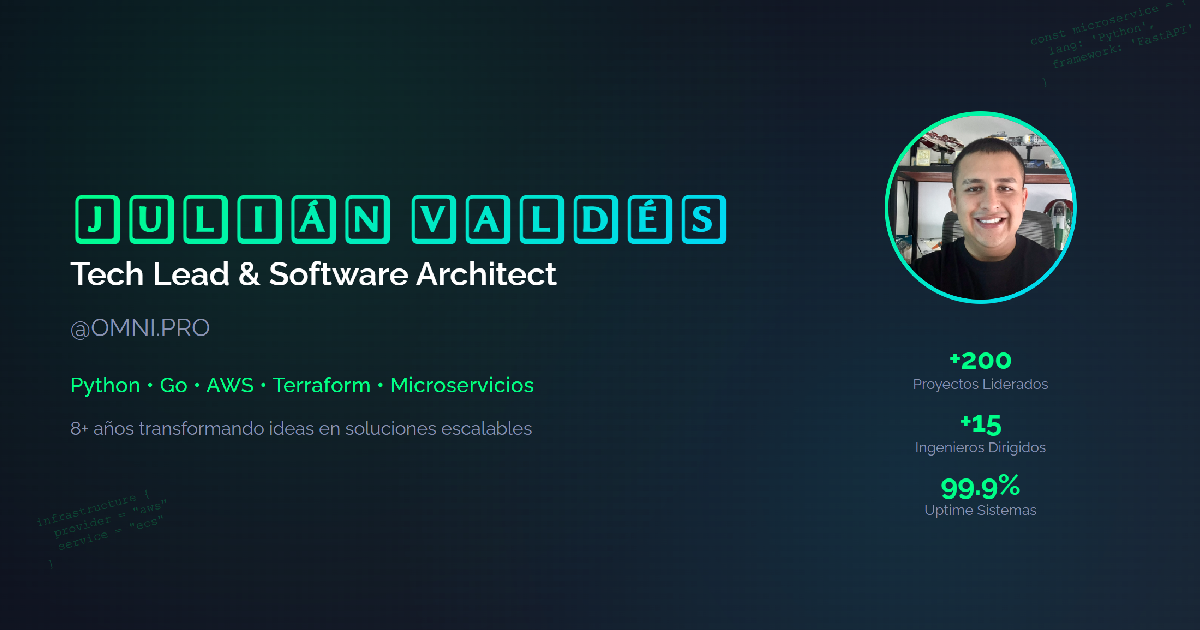
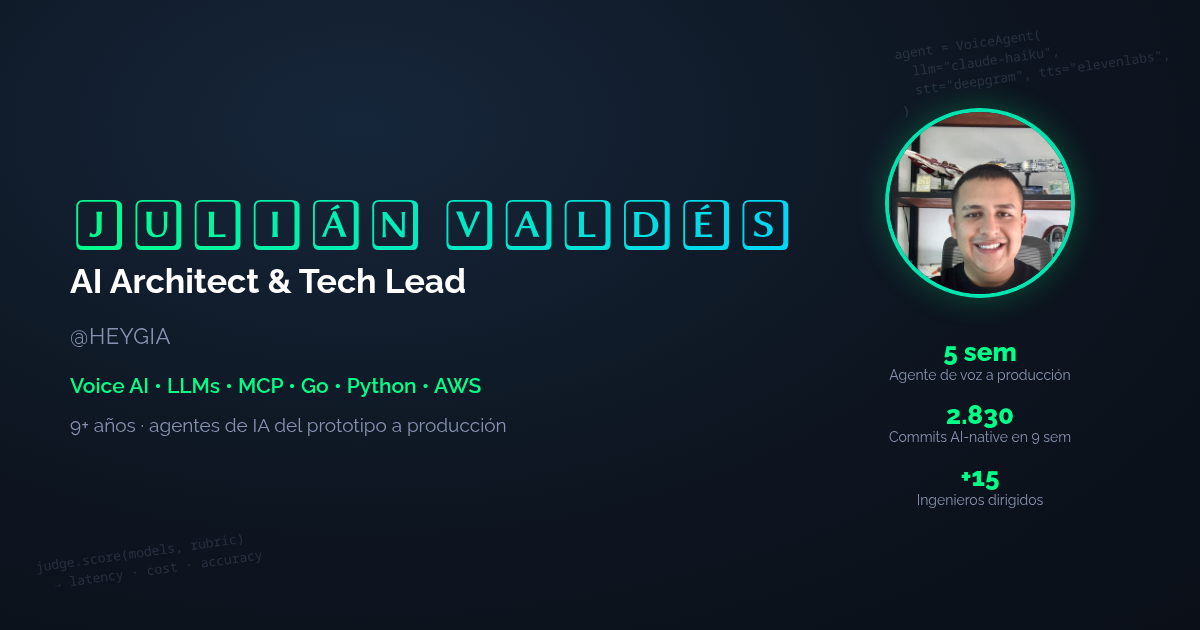
feat: regenerar og-image como AI Architect @HeyGIA
Agrega templates/og-home.html como fuente de la imagen principal.

diff --git a/templates/og-home.html b/templates/og-home.html
@@ -1,0 +1,59 @@
+<!DOCTYPE html>
+<html lang="es">
+<head>
+<meta charset="UTF-8">
+<!-- Plantilla de la og-image principal (assets/images/og-image.png). Render a 1200x630. -->
+<link href="https://fonts.googleapis.com/css2?family=Libertinus+Keyboard&family=Raleway:wght@400;500;600;700;800&display=swap" rel="stylesheet">
+<style>
+  * { margin: 0; padding: 0; box-sizing: border-box; }
+  body {
+    width: 1200px; height: 630px; overflow: hidden;
+    font-family: 'Raleway', sans-serif; color: #e6edf3;
+    background: radial-gradient(ellipse at 30% 20%, #16263a 0%, #0d1520 55%, #0a0f18 100%);
+    position: relative;
+  }
+  .code { position: absolute; font-family: monospace; font-size: 13px; line-height: 1.45;
+          color: rgba(136,146,176,0.22); white-space: pre; }
+  .code.tr { top: 26px; right: 30px; transform: rotate(-8deg); }
+  .code.bl { bottom: 50px; left: 36px; transform: rotate(-8deg); }
+  .left { position: absolute; left: 70px; top: 50%; transform: translateY(-50%); width: 760px; }
+  .logo { font-family: 'Libertinus Keyboard', serif; font-size: 52px; letter-spacing: 2px;
+          background: linear-gradient(90deg, #00ff88, #00d4ff); -webkit-background-clip: text;
+          background-clip: text; color: transparent; line-height: 1.1; }
+  .role { font-size: 34px; font-weight: 700; color: #fff; margin-top: 10px; }
+  .company { font-size: 22px; color: #8892b0; margin-top: 22px; letter-spacing: 0.5px; }
+  .stack { font-size: 21px; font-weight: 600; color: #00ff88; margin-top: 24px; }
+  .tag { font-size: 19px; color: #8892b0; margin-top: 16px; }
+  .right { position: absolute; right: 120px; top: 108px; width: 200px; text-align: center; }
+  .photo { width: 190px; height: 190px; border-radius: 50%; border: 4px solid #00e5b0;
+           object-fit: cover; object-position: center top; box-shadow: 0 0 30px rgba(0,255,136,0.25); }
+  .stat { margin-top: 18px; }
+  .stat:first-of-type { margin-top: 36px; }
+  .num { font-size: 26px; font-weight: 800; color: #00ff88; line-height: 1.1; }
+  .lbl { font-size: 14px; color: #8892b0; }
+</style>
+</head>
+<body>
+  <div class="code tr">agent = VoiceAgent(
+  llm="claude-haiku",
+  stt="deepgram", tts="elevenlabs",
+)</div>
+  <div class="code bl">judge.score(models, rubric)
+  → latency · cost · accuracy</div>
+
+  <div class="left">
+    <div class="logo">JULIÁN VALDÉS</div>
+    <div class="role">AI Architect &amp; Tech Lead</div>
+    <div class="company">@HEYGIA</div>
+    <div class="stack">Voice AI • LLMs • MCP • Go • Python • AWS</div>
+    <div class="tag">9+ años · agentes de IA del prototipo a producción</div>
+  </div>
+
+  <div class="right">
+    <img class="photo" src="../assets/images/profile.JPEG" alt="">
+    <div class="stat"><div class="num">5 sem</div><div class="lbl">Agente de voz a producción</div></div>
+    <div class="stat"><div class="num">2.830</div><div class="lbl">Commits AI-native en 9 sem</div></div>
+    <div class="stat"><div class="num">+15</div><div class="lbl">Ingenieros dirigidos</div></div>
+  </div>
+</body>
+</html>
